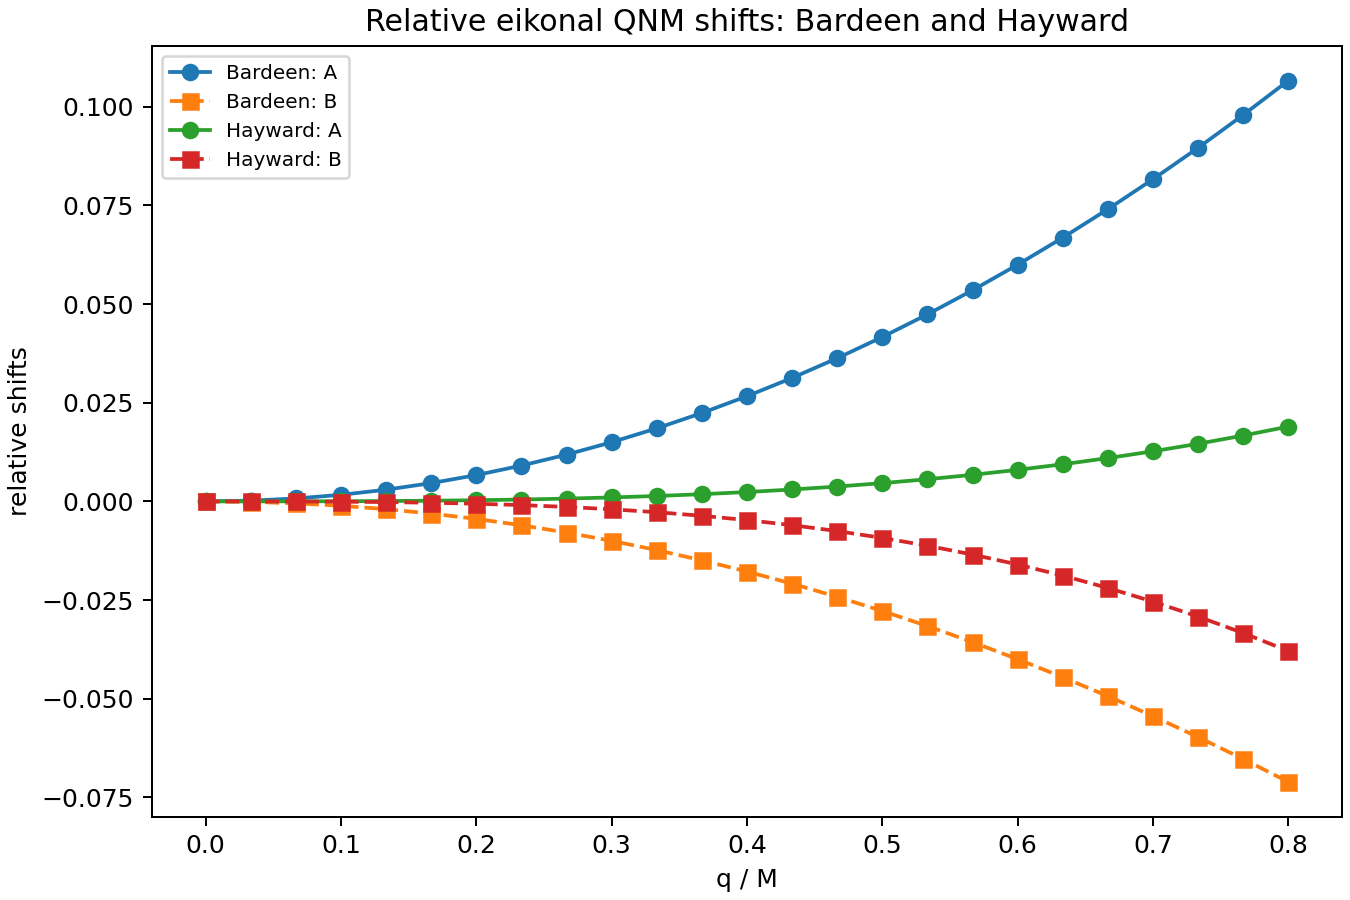
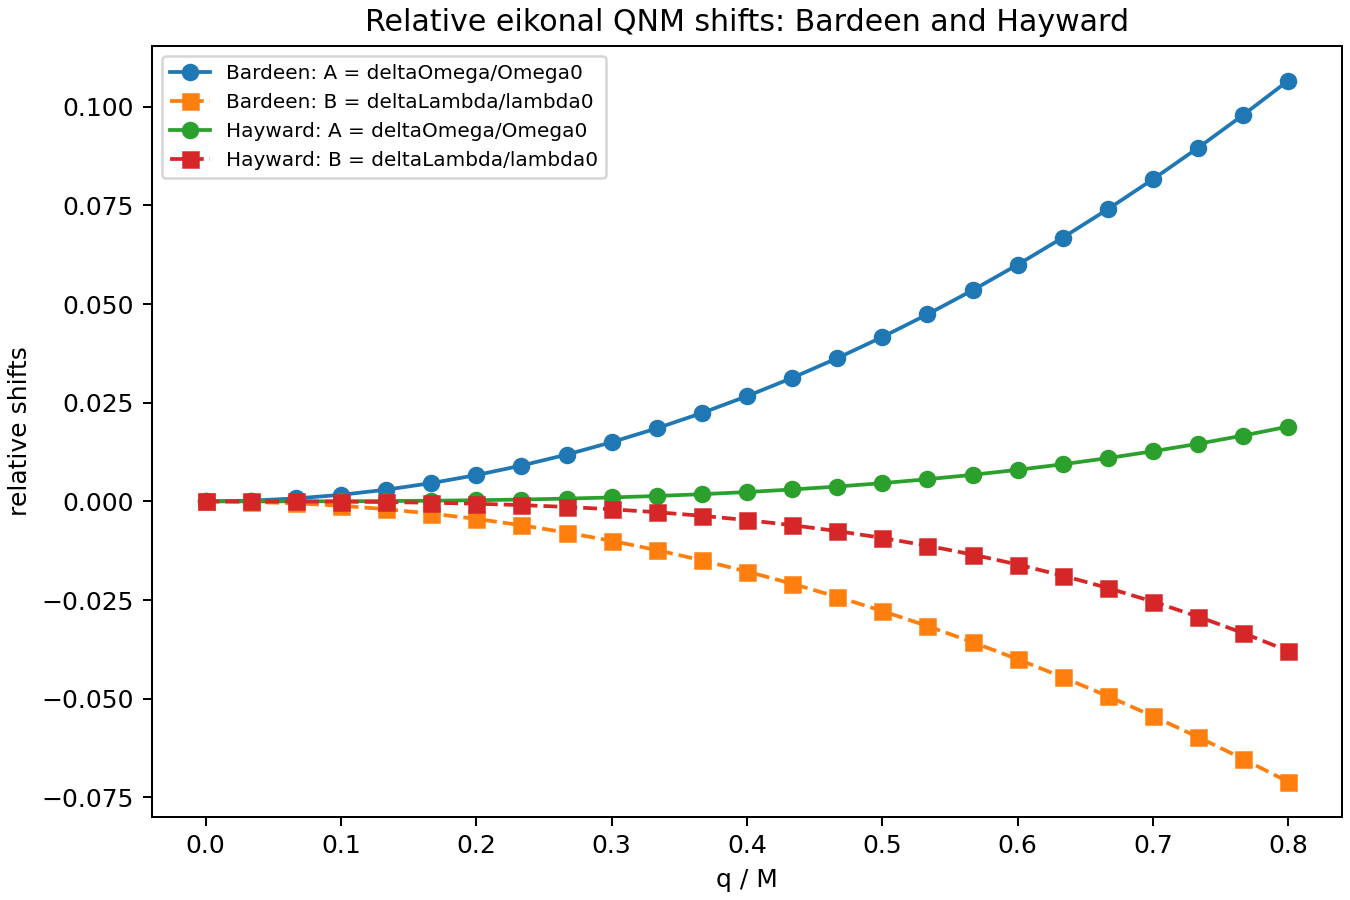
Separate diagnostic plots by model family

Changed region(s): [[0.2489, 0.0622, 0.4667, 0.2178]]

diff --git a/inverse_qnm_matter_diagnostics.py b/inverse_qnm_matter_diagnostics.py
@@ -248,8 +248,19 @@ def plot_bardeen_hayward_shifts(df: pd.DataFrame, out_dir: Path) -> None:
     fig, ax = plt.subplots(figsize=(7.5, 5), constrained_layout=True)
     for model in ["Bardeen", "Hayward"]:
         ordered = df[df["model"] == model].sort_values("q")
-        ax.plot(ordered["q"], ordered["A"], marker="o", label=f"{model}: A")
-        ax.plot(ordered["q"], ordered["B"], marker="s", linestyle="--", label=f"{model}: B")
+        ax.plot(
+            ordered["q"],
+            ordered["A"],
+            marker="o",
+            label=f"{model}: A = deltaOmega/Omega0",
+        )
+        ax.plot(
+            ordered["q"],
+            ordered["B"],
+            marker="s",
+            linestyle="--",
+            label=f"{model}: B = deltaLambda/lambda0",
+        )
 
     ax.set_xlabel("q / M")
     ax.set_ylabel("relative shifts")
@@ -264,8 +275,14 @@ def plot_kiselev_shifts(df: pd.DataFrame, out_dir: Path) -> None:
     kiselev = df[df["model"] == "Kiselev"]
     for w_q, subgroup in kiselev.groupby("w_q"):
         ordered = subgroup.sort_values("k")
-        ax.plot(ordered["k"], ordered["A"], marker="o", label=f"A, w_q={w_q:g}")
-        ax.plot(ordered["k"], ordered["B"], marker="s", linestyle="--", label=f"B, w_q={w_q:g}")
+        ax.plot(ordered["k"], ordered["A"], marker="o", label=f"A, w_q = {w_q:g}")
+        ax.plot(
+            ordered["k"],
+            ordered["B"],
+            marker="s",
+            linestyle="--",
+            label=f"B, w_q = {w_q:g}",
+        )
 
     ax.set_xlabel("k")
     ax.set_ylabel("relative shifts")
@@ -275,20 +292,44 @@ def plot_kiselev_shifts(df: pd.DataFrame, out_dir: Path) -> None:
     plt.close(fig)
 
 
-def plot_diagnostic(df: pd.DataFrame, out_dir: Path, column: str, ylabel: str, filename: str) -> None:
+def plot_bardeen_hayward_diagnostic(
+    df: pd.DataFrame,
+    out_dir: Path,
+    column: str,
+    ylabel: str,
+    title: str,
+    filename: str,
+) -> None:
     fig, ax = plt.subplots(figsize=(7.5, 5), constrained_layout=True)
-    for model, group in df.groupby("model"):
-        if model == "Kiselev":
-            for w_q, subgroup in group.groupby("w_q"):
-                ordered = subgroup.sort_values("k")
-                ax.plot(ordered["k"], ordered[column], marker="o", label=f"Kiselev w_q={w_q:g}")
-        else:
-            ordered = group.sort_values("q")
-            ax.plot(ordered["q"], ordered[column], marker="o", label=model)
+    for model in ["Bardeen", "Hayward"]:
+        ordered = df[df["model"] == model].sort_values("q")
+        ax.plot(ordered["q"], ordered[column], marker="o", label=model)
 
-    ax.set_xlabel("model parameter (q for Bardeen/Hayward, k for Kiselev)")
+    ax.set_xlabel("q / M")
     ax.set_ylabel(ylabel)
-    ax.set_title(f"{ylabel} (qualitative trend comparison)")
+    ax.set_title(title)
+    ax.legend(fontsize=8)
+    fig.savefig(out_dir / filename, dpi=180)
+    plt.close(fig)
+
+
+def plot_kiselev_diagnostic(
+    df: pd.DataFrame,
+    out_dir: Path,
+    column: str,
+    ylabel: str,
+    title: str,
+    filename: str,
+) -> None:
+    fig, ax = plt.subplots(figsize=(7.5, 5), constrained_layout=True)
+    kiselev = df[df["model"] == "Kiselev"]
+    for w_q, subgroup in kiselev.groupby("w_q"):
+        ordered = subgroup.sort_values("k")
+        ax.plot(ordered["k"], ordered[column], marker="o", label=f"w_q = {w_q:g}")
+
+    ax.set_xlabel("k")
+    ax.set_ylabel(ylabel)
+    ax.set_title(title)
     ax.legend(fontsize=8)
     fig.savefig(out_dir / filename, dpi=180)
     plt.close(fig)
@@ -322,13 +363,37 @@ def make_plots(df: pd.DataFrame, out_dir: Path) -> None:
     out_dir.mkdir(parents=True, exist_ok=True)
     plot_bardeen_hayward_shifts(df, out_dir)
     plot_kiselev_shifts(df, out_dir)
-    plot_diagnostic(df, out_dir, "I_rho", "I_rho", "I_rho_by_model.png")
-    plot_diagnostic(
+    plot_bardeen_hayward_diagnostic(
+        df,
+        out_dir,
+        "I_rho",
+        "I_rho",
+        "Integrated density diagnostic: Bardeen and Hayward",
+        "I_rho_bardeen_hayward.png",
+    )
+    plot_kiselev_diagnostic(
+        df,
+        out_dir,
+        "I_rho",
+        "I_rho",
+        "Integrated density diagnostic: Kiselev",
+        "I_rho_kiselev.png",
+    )
+    plot_bardeen_hayward_diagnostic(
         df,
         out_dir,
         "local_combo",
-        "local_combo = rho(r0)(1+w_theta)",
-        "local_combo_by_model.png",
+        "rho(r0) * (1 + w_theta)",
+        "Local density-pressure diagnostic: Bardeen and Hayward",
+        "local_combo_bardeen_hayward.png",
+    )
+    plot_kiselev_diagnostic(
+        df,
+        out_dir,
+        "local_combo",
+        "rho(r0) * (1 + w_theta)",
+        "Local density-pressure diagnostic: Kiselev",
+        "local_combo_kiselev.png",
     )
     plot_model_comparison(df, out_dir)
 

diff --git a/README.md b/README.md
@@ -1,7 +1,7 @@
 # What Can One Eikonal QNM Tell Us About Effective Matter?
 
-Inverse diagnostics for the matter combinations fixed by eikonal QNM shifts
-around black holes.
+Inverse diagnostics for the effective matter combinations constrained by
+eikonal QNM shifts around black holes.
 
 This repository is a careful research prototype. It starts from one complex
 eikonal QNM frequency and extracts the effective matter combinations fixed by
@@ -13,11 +13,12 @@ A single complex eikonal QNM provides only two real quantities: `Omega` and
 `lambda`.
 
 Therefore, this code does not reconstruct the full matter profile `rho(r)`,
-and it does not determine `w_theta` separately in a model-independent way.
+and it does not determine `w_theta` separately in a profile-independent way
+within the perturbative setup.
 Instead, it extracts only the combinations of metric and matter variables that
 are fixed by the perturbative formulas.
 
-The model-independent diagnostics are:
+The diagnostic combinations fixed by the perturbative formulas are:
 
 - `delta_f(r0)`: metric deformation at the photon sphere
 - `I_rho`: integrated density diagnostic outside the photon sphere
@@ -71,9 +72,10 @@ local_combo = rho(r0) * (1 + w_theta)
 Here `I_rho` is an integrated diagnostic, not a full density reconstruction,
 and `local_combo` is the combination `rho(r0) * (1 + w_theta)`.
 
-## Validation Models
+## Forward examples and sanity checks
 
-The script validates the inverse formulas using three forward examples:
+The script sanity-checks the inverse diagnostic pipeline using three forward
+examples with known first-order eikonal QNM shifts:
 
 - Kiselev analytic QNM shifts with parameters `(w_q, k)`
 - Bardeen first-order shifts:
@@ -83,12 +85,12 @@ The script validates the inverse formulas using three forward examples:
   - `deltaOmega/Omega0 = q^3/(27 M^3)`
   - `deltaLambda/lambda0 = -2 q^3/(27 M^3)`
 
-The validation checks that the inverse diagnostic pipeline recovers the
-effective combinations implied by these known shift formulas.
+These checks show that the inverse diagnostic pipeline recovers the effective
+combinations implied by these known shift formulas.
 
 ## Optional toy-profile reconstruction
 
-This step is not model-independent. It only shows what `rho0` and `w_theta`
+This step is not profile-independent. It only shows what `rho0` and `w_theta`
 would be if the exponential density profile were assumed:
 
 ```text
@@ -100,7 +102,7 @@ distribution.
 
 With fixed `L`, the code uses `I_rho` to estimate `rho0`, then uses
 `local_combo = rho(r0) * (1 + w_theta)` to estimate a conditional value of
-`w_theta`. This is a toy assumed profile, not a model-independent result.
+`w_theta`. This is a toy assumed profile, not a profile-independent result.
 
 ## Quick Start
 
@@ -128,8 +130,10 @@ outputs/inverse_diagnostics/
 - `profile_reconstruction.csv`
 - `relative_shifts_bardeen_hayward.png`
 - `relative_shifts_kiselev.png`
-- `I_rho_by_model.png`
-- `local_combo_by_model.png`
+- `I_rho_bardeen_hayward.png`
+- `I_rho_kiselev.png`
+- `local_combo_bardeen_hayward.png`
+- `local_combo_kiselev.png`
 - `diagnostic_trend_qualitative_comparison.png`
 
 ## Figures
@@ -144,22 +148,36 @@ Caption: Relative shifts `A = deltaOmega/Omega0` and
 Caption: Relative shifts `A = deltaOmega/Omega0` and
 `B = deltaLambda/lambda0` versus `k` for Kiselev at fixed `w_q` values.
 
-![Integrated density diagnostic](outputs/inverse_diagnostics/I_rho_by_model.png)
+For the Kiselev examples, `k` is treated as a small amplitude parameter in
+units with `M = 1`. Its dimensional interpretation depends on `w_q`, so
+comparisons across different `w_q` values should be read as qualitative trends.
 
-Caption: Inferred integrated density diagnostic `I_rho`. This is a qualitative
-trend plot because the sampled parameter intervals are model-dependent.
+![Integrated density diagnostic for Bardeen and Hayward](outputs/inverse_diagnostics/I_rho_bardeen_hayward.png)
 
-![Local pressure-density combination](outputs/inverse_diagnostics/local_combo_by_model.png)
+Caption: Inferred integrated density diagnostic `I_rho` versus `q / M` for
+Bardeen and Hayward.
+
+![Integrated density diagnostic for Kiselev](outputs/inverse_diagnostics/I_rho_kiselev.png)
+
+Caption: Inferred integrated density diagnostic `I_rho` versus `k` for Kiselev
+at fixed `w_q` values.
+
+![Local pressure-density combination for Bardeen and Hayward](outputs/inverse_diagnostics/local_combo_bardeen_hayward.png)
+
+Caption: Inferred local combination `rho(r0) * (1 + w_theta)` versus `q / M`
+for Bardeen and Hayward.
+
+![Local pressure-density combination for Kiselev](outputs/inverse_diagnostics/local_combo_kiselev.png)
 
 Caption: Inferred local combination `rho(r0) * (1 + w_theta)`. This is a
 diagnostic combination, not a separate determination of `rho(r0)` and
-`w_theta`.
+`w_theta`. The plot shows Kiselev trends versus `k` at fixed `w_q` values.
 
 ![Qualitative diagnostic trend comparison](outputs/inverse_diagnostics/diagnostic_trend_qualitative_comparison.png)
 
-Caption: Qualitative diagnostic-range comparison across validation models. The
-range comparison is qualitative only. The sampled parameter intervals are
-model-dependent, so the bars should not be interpreted as a direct physical
+This comparison is qualitative only. The sampled parameter intervals are
+model-dependent, and the parameters `q` and `k` do not have the same physical
+meaning. Therefore, the bars should not be interpreted as a direct physical
 ranking of the models.
 
 ## Scientific Status